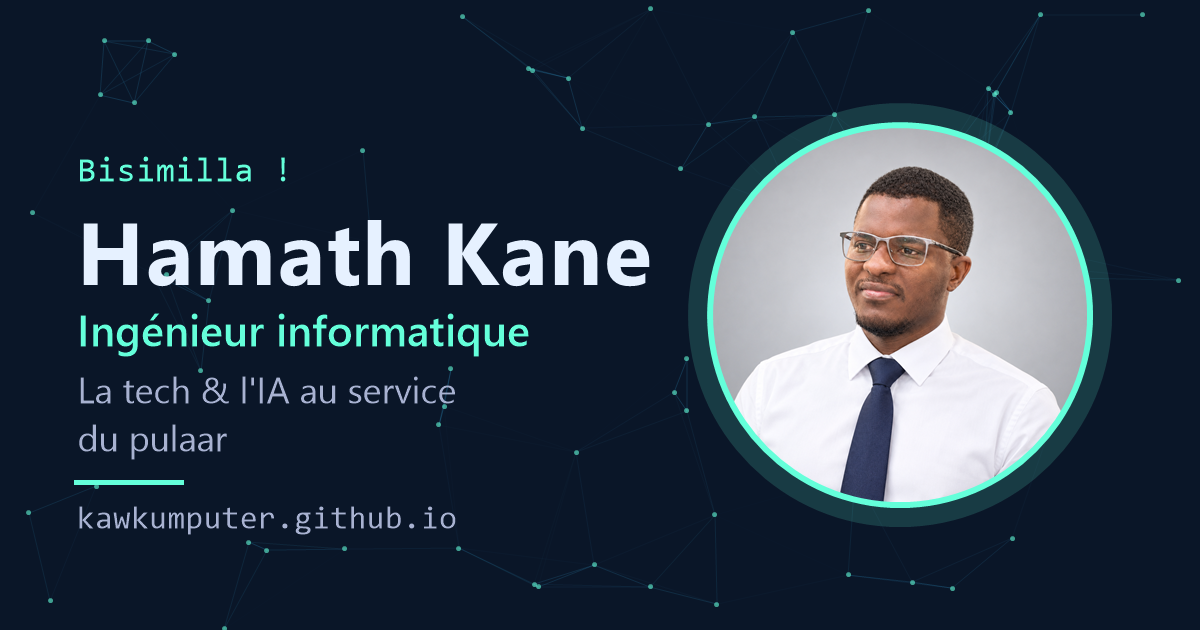
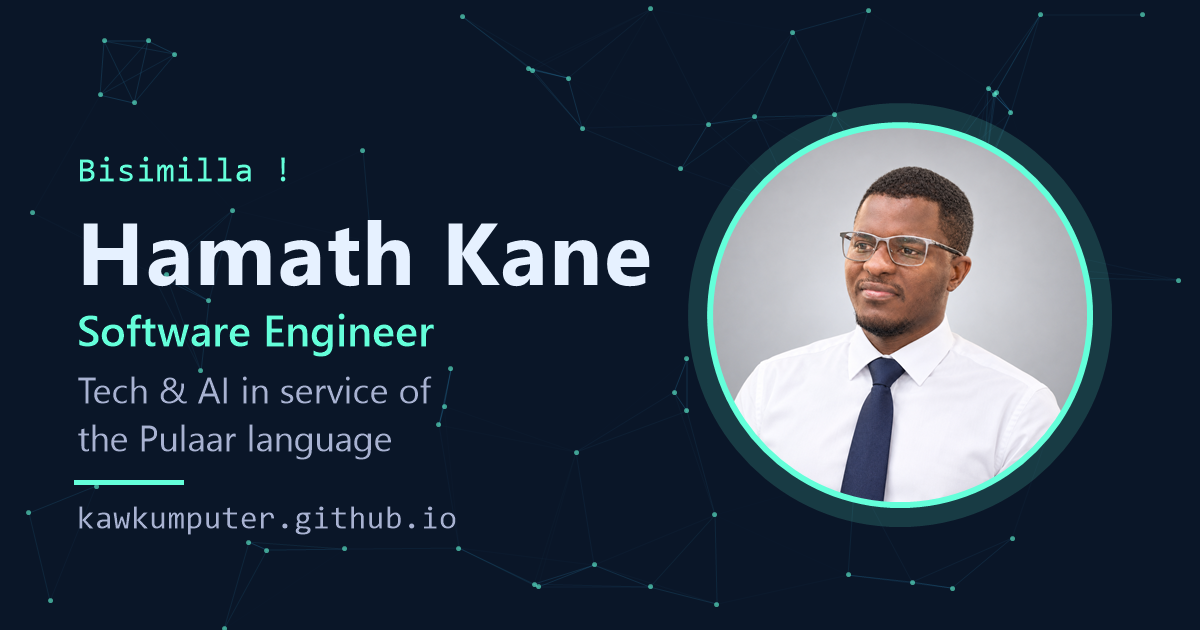
Passe l'anglais en langue par défaut du portfolio
- « / » et les URL inconnues redirigent vers /en
- x-default (hreflang, sitemap) et sélecteur de langue : EN en premier
- Image Open Graph en anglais ; README mis à jour

Changed region(s): [[0.0617, 0.6032, 0.4008, 0.7238], [0.0617, 0.4825, 0.4625, 0.573]]

diff --git a/src/app/core/seo.service.ts b/src/app/core/seo.service.ts
@@ -1,6 +1,6 @@
 import { DOCUMENT, Injectable, inject } from '@angular/core';
 import { Meta, Title } from '@angular/platform-browser';
-import { LANGS, Lang } from '../content/content.model';
+import { DEFAULT_LANG, LANGS, Lang } from '../content/content.model';
 import { profile } from '../content/profile';
 import { ogImage, seo, siteUrl } from '../content/seo';
 import { isSet } from './is-set';
@@ -45,7 +45,7 @@ export class SeoService {
 
     this.setLink('canonical', url);
     for (const l of LANGS) this.setLink('alternate', pageUrl(l), l);
-    this.setLink('alternate', pageUrl('fr'), 'x-default');
+    this.setLink('alternate', pageUrl(DEFAULT_LANG), 'x-default');
 
     this.setJsonLd(lang);
   }

diff --git a/src/app/content/content.model.ts b/src/app/content/content.model.ts
@@ -2,7 +2,9 @@ import type { IconName } from '../shared/icon/icons';
 
 /** Langues du site. Le pulaar est utilisé en touches ponctuelles (attribut lang="ff"). */
 export type Lang = 'fr' | 'en';
-export const LANGS: readonly Lang[] = ['fr', 'en'];
+export const LANGS: readonly Lang[] = ['en', 'fr'];
+/** Langue par défaut : cible de la redirection de `/` et valeur `x-default` pour le SEO. */
+export const DEFAULT_LANG: Lang = 'en';
 
 /** Texte traduit, ou texte identique dans toutes les langues. */
 export type Localized = string | Record<Lang, string>;

diff --git a/src/app/app.routes.ts b/src/app/app.routes.ts
@@ -2,8 +2,8 @@ import { Routes } from '@angular/router';
 import { HomePage } from './pages/home/home.page';
 
 export const routes: Routes = [
-  { path: '', pathMatch: 'full', redirectTo: 'fr' },
-  { path: 'fr', component: HomePage, data: { lang: 'fr' } },
+  { path: '', pathMatch: 'full', redirectTo: 'en' },
   { path: 'en', component: HomePage, data: { lang: 'en' } },
-  { path: '**', redirectTo: 'fr' },
+  { path: 'fr', component: HomePage, data: { lang: 'fr' } },
+  { path: '**', redirectTo: 'en' },
 ];

diff --git a/src/app/core/i18n.service.ts b/src/app/core/i18n.service.ts
@@ -4,8 +4,8 @@ import { ui } from '../content/ui';
 
 @Injectable({ providedIn: 'root' })
 export class I18nService {
-  /** Langue courante, fixée par la route (/fr ou /en). */
-  readonly lang = signal<Lang>('fr');
+  /** Langue courante, fixée par la route (/en ou /fr). L'anglais est la langue par défaut. */
+  readonly lang = signal<Lang>('en');
   /** Libellés d'interface dans la langue courante. */
   readonly t = computed(() => ui[this.lang()]);
 

diff --git a/src/index.html b/src/index.html
@@ -1,8 +1,8 @@
 <!doctype html>
-<html lang="fr">
+<html lang="en">
   <head>
     <meta charset="utf-8" />
-    <title>Hamath Kane — Ingénieur informatique</title>
+    <title>Hamath Kane — Software Engineer</title>
     <base href="/" />
     <meta name="viewport" content="width=device-width, initial-scale=1" />
     <meta name="theme-color" content="#0a1628" />

diff --git a/src/app/app.routes.server.ts b/src/app/app.routes.server.ts
@@ -1,6 +1,6 @@
 import { RenderMode, ServerRoute } from '@angular/ssr';
 
-/** Tout est prérendu au build : /fr et /en deviennent des pages HTML statiques. */
+/** Tout est prérendu au build : /en et /fr deviennent des pages HTML statiques. */
 export const serverRoutes: ServerRoute[] = [
   {
     path: '**',

diff --git a/README.md b/README.md
@@ -3,7 +3,7 @@
 Site personnel de **Hamath Kane**, ingénieur informatique — *La tech & l'IA au service du pulaar*.
 
 - **Stack** : Angular 22 (composants standalone, signals, zoneless), SCSS, prérendu statique (SSG)
-- **Langues** : français (`/fr/`, par défaut) et anglais (`/en/`), avec des touches de pulaar
+- **Langues** : anglais (`/en/`, par défaut) et français (`/fr/`), avec des touches de pulaar
 - **Hébergement** : GitHub Pages → <https://kawkumputer.github.io/>
 
 ---
@@ -14,14 +14,14 @@ Prérequis : **Node.js 22.22+ ou 24+** (Angular 22 l'exige).
 
 ```bash
 npm install
-npm start            # serveur de dev → http://localhost:4200/fr
+npm start            # serveur de dev → http://localhost:4200/en
 ```
 
 Pour tester la version de production telle qu'elle sera en ligne :
 
 ```bash
-npm run build        # génère dist/my-portfolio/browser (pages /fr et /en prérendues)
-npm run preview      # sert ce dossier → http://localhost:8080/fr/
+npm run build        # génère dist/my-portfolio/browser (pages /en et /fr prérendues)
+npm run preview      # sert ce dossier → http://localhost:8080/en/
 ```
 
 En développement, la console du navigateur liste toutes les valeurs encore à `TODO`.
@@ -127,7 +127,7 @@ src/
 scripts/postbuild.mjs   crée 404.html et .nojekyll pour GitHub Pages
 ```
 
-- **SEO** : `/fr/` et `/en/` sont prérendues en HTML complet au build, avec `title`, `description`, Open Graph, Twitter Card, `canonical`, `hreflang` et des données structurées `Person`. `/` redirige vers `/fr/`, et toute URL inconnue aussi (via `404.html`).
+- **SEO** : `/en/` et `/fr/` sont prérendues en HTML complet au build, avec `title`, `description`, Open Graph, Twitter Card, `canonical`, `hreflang` et des données structurées `Person`. `/` redirige vers `/en/` (langue par défaut, aussi `x-default`), et toute URL inconnue aussi (via `404.html`).
 - **Performance** : seul le hero est hydraté au chargement ; chaque autre section l'est lorsqu'elle arrive à l'écran (`@defer (hydrate on viewport)`). Le fond animé démarre après le chargement, à 30 images/s, et se met en pause hors écran.
 - **Animations** : l'apparition au scroll est 100 % CSS (`animation-timeline: view()`). Elle est désactivée si l'utilisateur préfère réduire les animations, et le contenu reste simplement visible sur les navigateurs qui ne la prennent pas en charge.
 - **Accessibilité** : lien d'évitement, focus visible, navigation au clavier (la touche Échap ferme le menu), contrastes AA, `lang="ff"` sur les passages en pulaar.
@@ -142,4 +142,4 @@ Le dépôt hébergeait auparavant la page d'assistance de Quraan Pulaar. Ces fic
 | --- | --- |
 | `/privacy.html` | Politique de confidentialité (même adresse qu'avant) |
 | `/app-ads.txt` | Déclaration AdMob (même adresse qu'avant) |
-| `/support.html` | Ancienne page d'accueil « Quraan Pulaar - Support » (**l'adresse a changé** : elle était à la racine `/`, qui redirige maintenant vers `/fr/`) |
+| `/support.html` | Ancienne page d'accueil « Quraan Pulaar - Support » (**l'adresse a changé** : elle était à la racine `/`, qui redirige maintenant vers `/en/`) |
